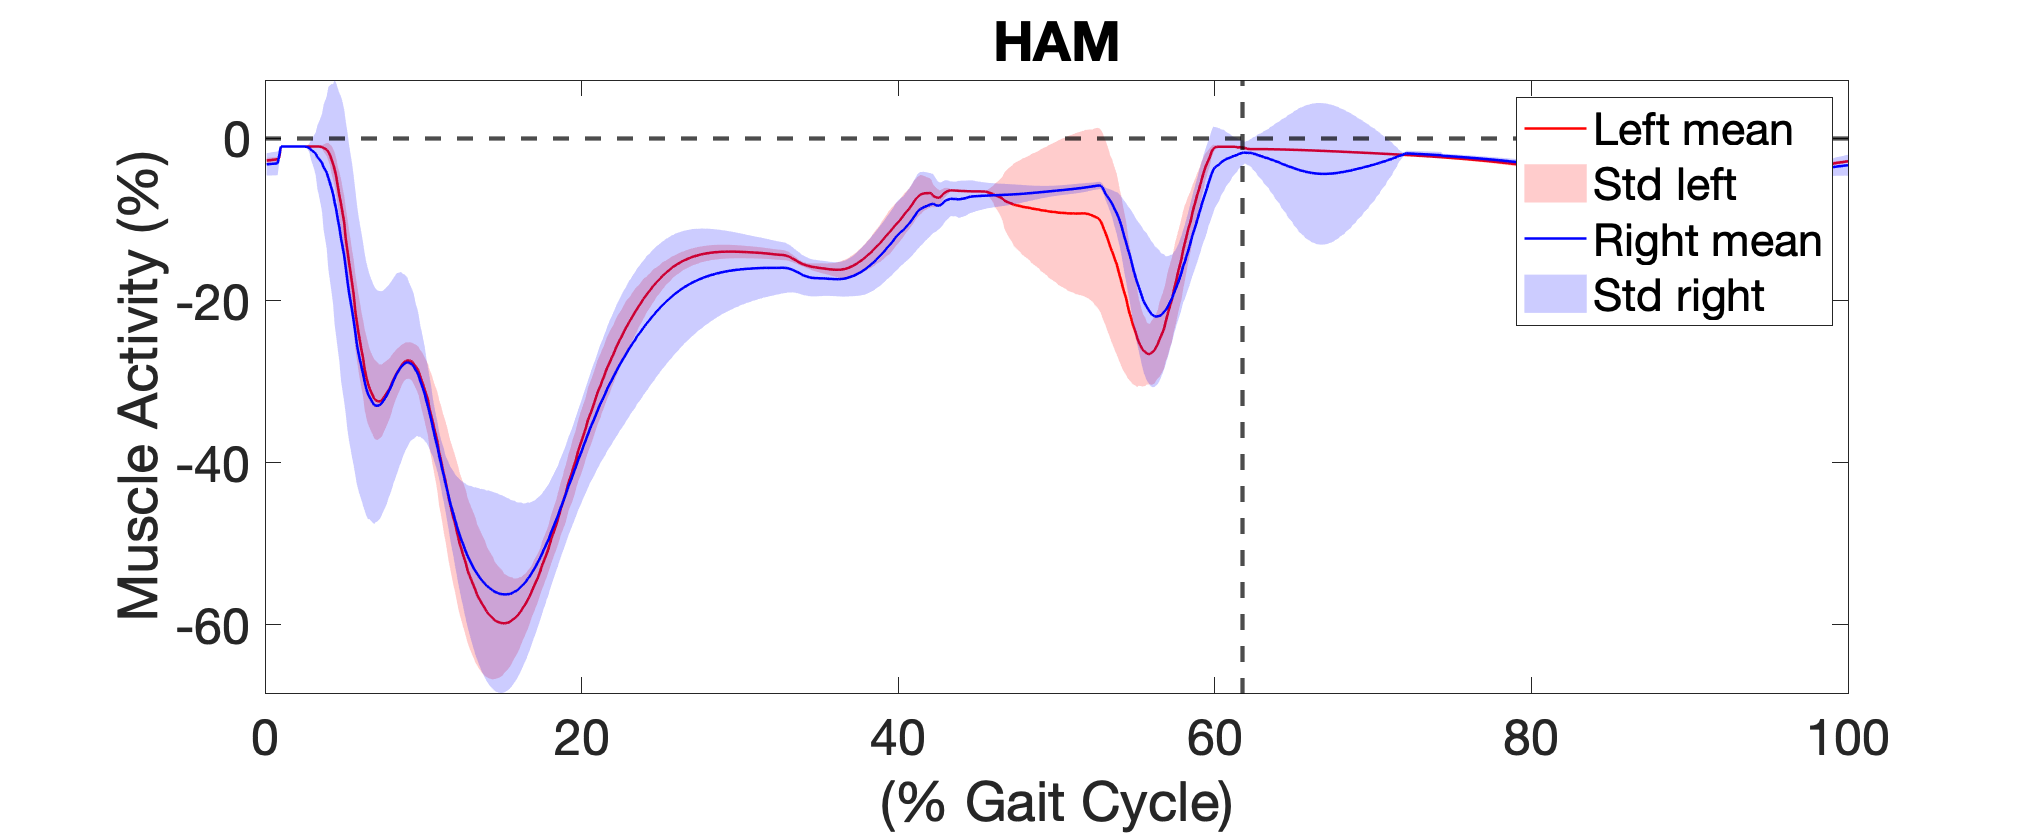
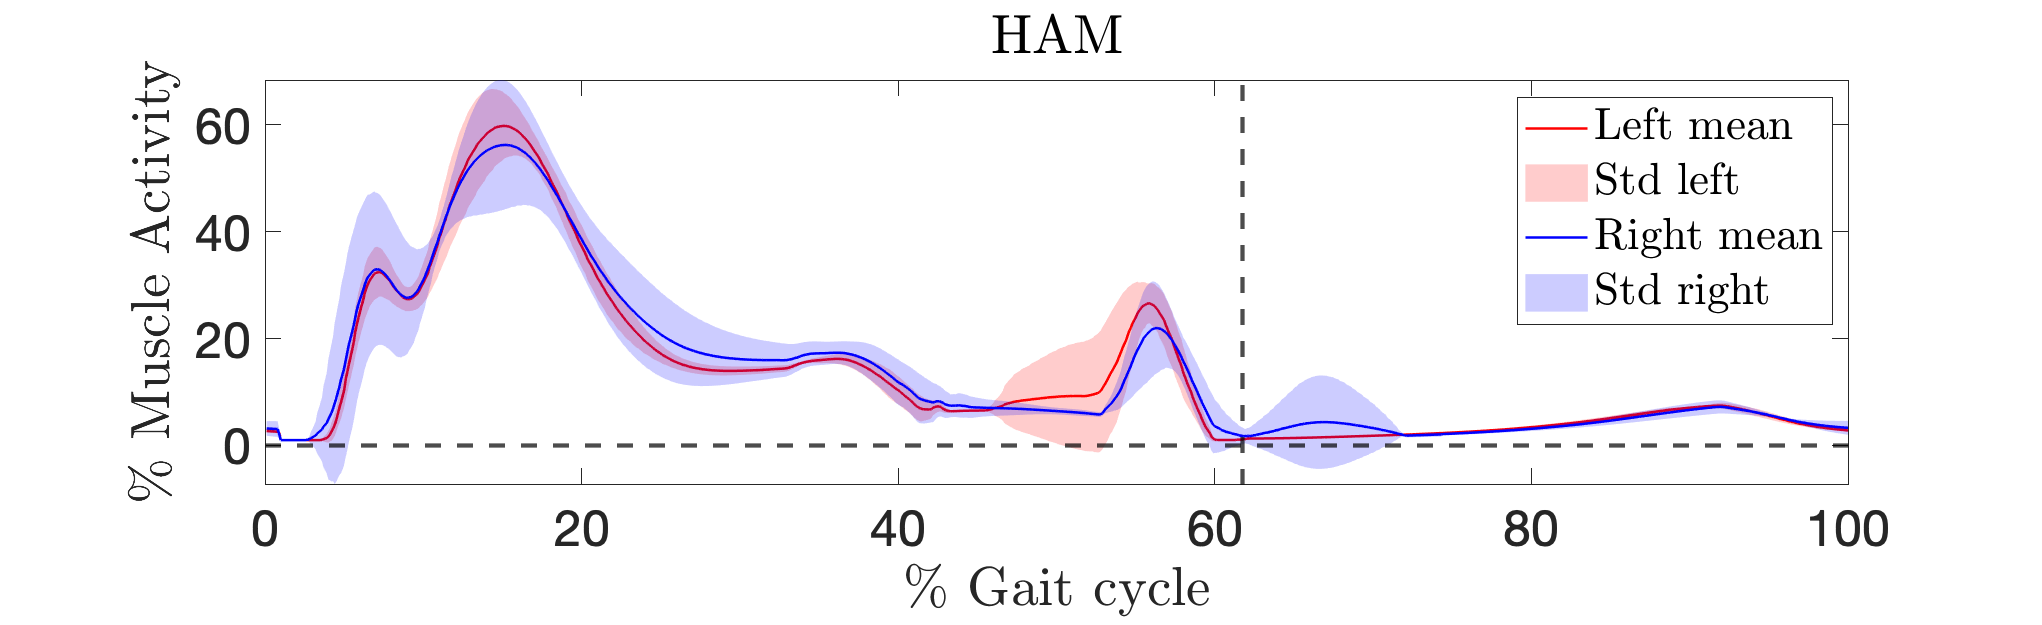
updated figures

Changed region(s): [[0.0617, 0.0912, 0.9256, 1.0], [0.7405, 0.4256, 0.8639, 0.5168], [0.4628, 0.0304, 0.5553, 0.0912]]

diff --git a/Mini_project_2/GEYER_Assignment/exercise2_data/ex2.m b/Mini_project_2/GEYER_Assignment/exercise2_data/ex2.m
@@ -37,11 +37,11 @@ end
 
 for muscle = 1:length(labels_muscle)
     % We multiply by 100 just to have a real percentage of muscle activity
-    gait_cycles.(['LMuscle' labels_muscle{muscle}]).mean_activity = mean(-(100*gait_cycles.(['LMuscle' labels_muscle{muscle}]).divided));
-    gait_cycles.(['LMuscle' labels_muscle{muscle}]).std_activity = std(-(100*gait_cycles.(['LMuscle' labels_muscle{muscle}]).divided));
+    gait_cycles.(['LMuscle' labels_muscle{muscle}]).mean_activity = mean(100*gait_cycles.(['LMuscle' labels_muscle{muscle}]).divided);
+    gait_cycles.(['LMuscle' labels_muscle{muscle}]).std_activity = std(100*gait_cycles.(['LMuscle' labels_muscle{muscle}]).divided);
     
-    gait_cycles.(['RMuscle' labels_muscle{muscle}]).mean_activity = mean(-(100*gait_cycles.(['RMuscle' labels_muscle{muscle}]).divided));
-    gait_cycles.(['RMuscle' labels_muscle{muscle}]).std_activity = std(-(100*gait_cycles.(['RMuscle' labels_muscle{muscle}]).divided));
+    gait_cycles.(['RMuscle' labels_muscle{muscle}]).mean_activity = mean(100*gait_cycles.(['RMuscle' labels_muscle{muscle}]).divided);
+    gait_cycles.(['RMuscle' labels_muscle{muscle}]).std_activity = std(100*gait_cycles.(['RMuscle' labels_muscle{muscle}]).divided);
     
     % To plot
     figure();
@@ -64,7 +64,7 @@ for muscle = 1:length(labels_muscle)
     patch(fill_x,fill_y,'b','EdgeColor','none');
     alpha(.2)
     
-    legend('Left mean','Std left','Right mean','Std right','AutoUpdate','off');
+    legend({'Left mean','Std left','Right mean','Std right'},'Interpreter','latex','AutoUpdate','off');
     ax = gca;
     ax.FontSize = 24;
     
@@ -76,9 +76,10 @@ for muscle = 1:length(labels_muscle)
     title(labels_muscle{muscle});
     xline(final_percentage_stance,'k--','LineWidth',2);
     yline(0,'k--','LineWidth',2);
-    xlabel('(% Gait Cycle)');
-    ylabel('Muscle Activity (%)');
-    set(gcf, 'Position', [1 1 980 400]);
+    set(0,'defaultTextInterpreter','latex'); 
+    xlabel('\% Gait cycle');
+    ylabel('\% Muscle Activity');
+    set(gcf, 'Position', [1 1 980 300]);
     saveas(gcf,['Figures/Muscle_' labels_muscle{muscle}],'png');
 end
 %% For torques 
@@ -127,7 +128,7 @@ for torque = 1:length(labels_torque)
     patch(fill_x,fill_y,'b','EdgeColor','none');
     alpha(.2)
     
-    legend('Left mean','Std left','Right mean','Std right','AutoUpdate','off');
+    legend({'Left mean','Std left','Right mean','Std right'},'Interpreter','latex','AutoUpdate','off');
     ax = gca;
     ax.FontSize = 24;
     
@@ -139,9 +140,10 @@ for torque = 1:length(labels_torque)
     title(labels_torque{torque});
     xline(final_percentage_stance,'k--','LineWidth',2);
     yline(0,'k--','LineWidth',2);
-    xlabel('(% Gait cycle)');
-    ylabel('Torque');
-    set(gcf, 'Position', [1 1 980 400]);
+    set(0,'defaultTextInterpreter','latex'); 
+    xlabel('\% Gait cycle');
+    ylabel('Torque [N$\cdot$m]');
+    set(gcf, 'Position', [1 1 980 300]);
     saveas(gcf,['Figures/Torque_' labels_torque{torque}],'png');
 end
 %% For Angles
@@ -198,7 +200,7 @@ for angle = 1:length(labels_angle)
     patch(fill_x,fill_y,'b','EdgeColor','none');
     alpha(.2)
     
-    legend('Left mean','Std left','Right mean','Std right','AutoUpdate','off');
+    legend({'Left mean','Std left','Right mean','Std right'},'Interpreter','latex','AutoUpdate','off');
     ax = gca;
     ax.FontSize = 24;
     
@@ -210,9 +212,11 @@ for angle = 1:length(labels_angle)
     title(labels_angle{angle});
     xline(final_percentage_stance,'k--','LineWidth',2);
     yline(0,'k--','LineWidth',2);
-    xlabel('(% Gait cycle)');
+    set(0,'defaultTextInterpreter','latex'); 
+    xlabel('\% Gait cycle');
     ylabel('Angle [deg]');
-    set(gcf, 'Position', [1 1 980 400]);
+    set(gcf, 'Position', [1 1 980 300]);
     saveas(gcf,['Figures/Angle' labels_angle{angle}],'png');
 end
 
+clc;
